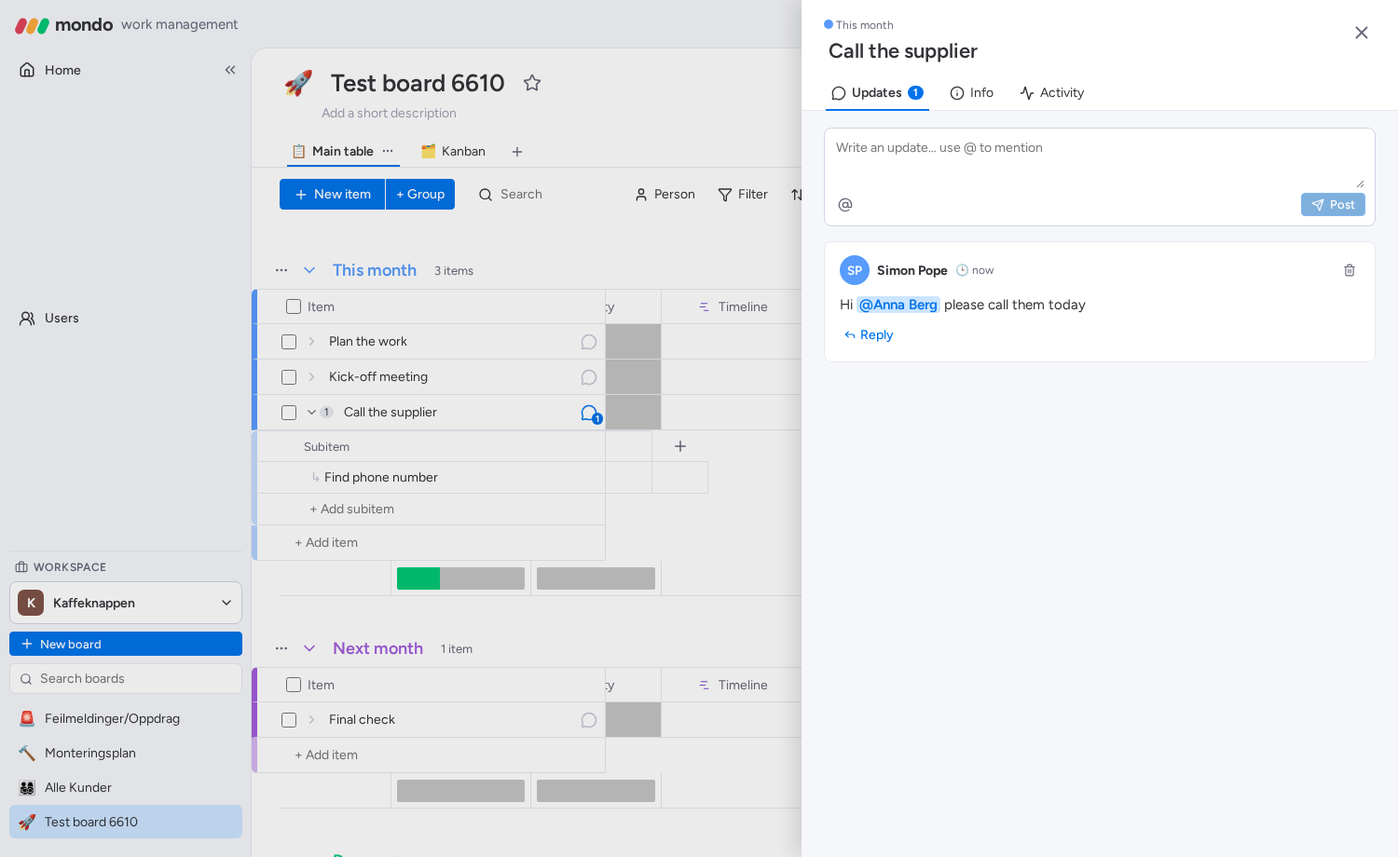
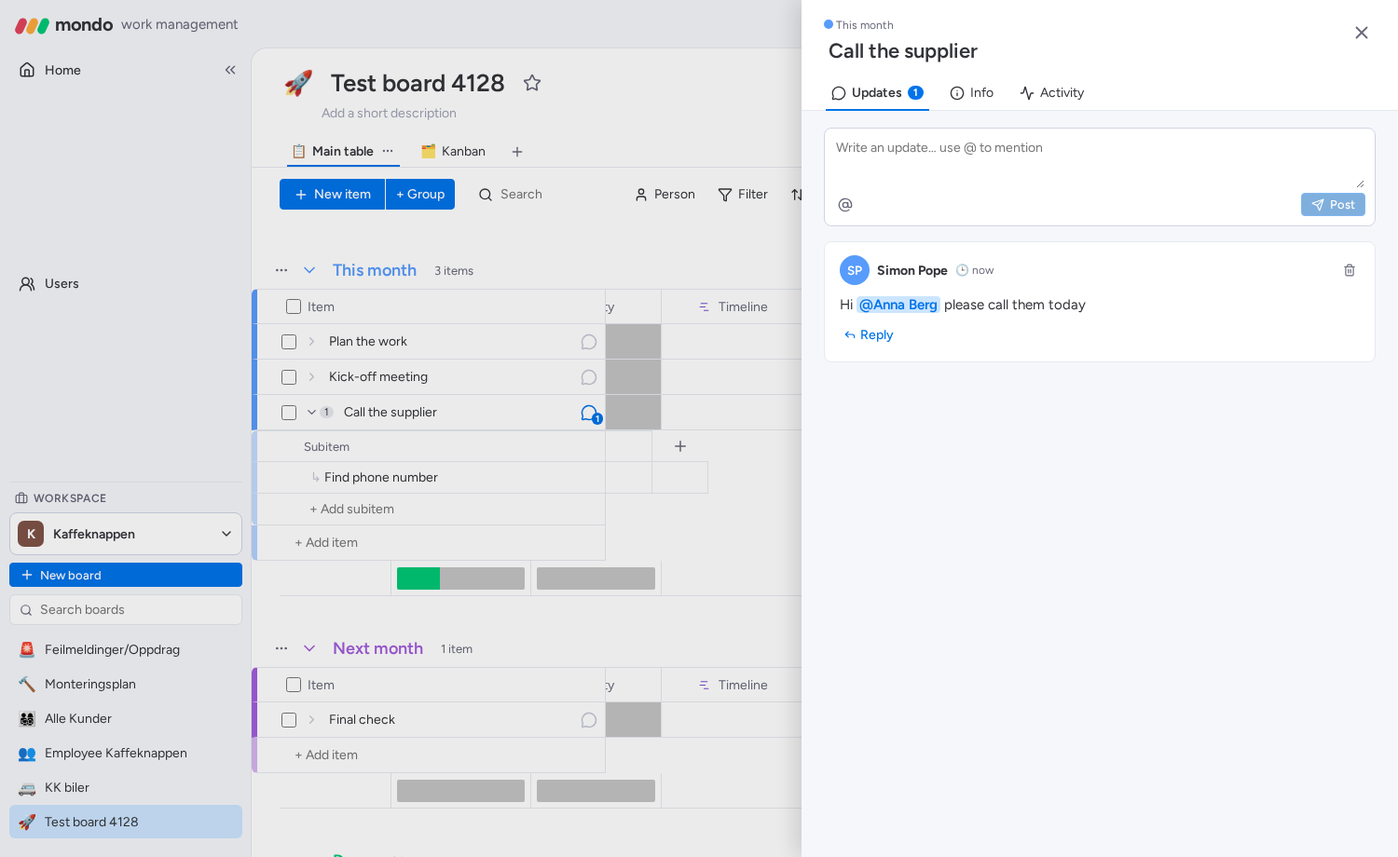
Ledelse/Employee/Biler boards (structure from monday, made-up rows): templates + fresh-start seed; date-arrives and column-change automations

diff --git a/app/server/templates-more.js b/app/server/templates-more.js
@@ -1,0 +1,163 @@
+// Ledelse / admin boards – STRUCTURE copied from Simon's monday boards (names, groups, column titles/types, status labels + colours,
+// subitems, automations). No real content: goals, meeting notes, staff, salaries, ID/bank numbers and cars are NOT copied.
+const { col, grp, cid } = require('./templates');
+
+// monday label colour index → hex (indexes come from the monday API)
+const IDX = { 0: '#fdab3d', 1: '#00c875', 2: '#df2f4a', 3: '#007eb5', 4: '#9d50dd', 5: '#c4c4c4', 6: '#037f4c', 7: '#579bfc', 8: '#cab641', 9: '#ffcb00', 10: '#333333', 11: '#bb3354', 12: '#ff007f', 13: '#ff5ac4', 14: '#784bd1', 15: '#9cd326', 16: '#66ccff', 17: '#757575', 18: '#7f5347', 19: '#ff6d3b', 104: '#9aadbd', 105: '#68a1bd', 109: '#401694', 153: '#216edf', 156: '#74afcc', 159: '#bda8f9' };
+const L = (spec) => spec.split(';').map((x) => x.trim()).filter(Boolean).map((x) => { const m = x.match(/^(.*)\[(#[0-9a-f]{6}|\d+)\]$/i); return { id: cid('l'), label: m[1].trim(), color: m[2].startsWith('#') ? m[2] : IDX[m[2]] || '#c4c4c4' }; });
+const st = (title, spec) => col('status', title, { labels: [...L(spec), { id: cid('l'), label: '', color: '#c4c4c4' }] });
+const dd = (title, list) => col('dropdown', title, { options: list.map((label) => ({ id: cid('o'), label })) });
+const byTitle = (cols, t, n = 0) => cols.filter((c) => c.title === t)[n];
+const lab = (c, name) => c.settings.labels.find((l) => l.label === name)?.id;
+const file = (title) => col('link', title); // mondo has no file upload yet – a link (e.g. SharePoint/OneDrive) instead
+
+// ---------- Styrets handlingsplan Kaffeknappen 2025 ----------
+function styret() {
+  const columns = [
+    st('Status', 'Working on it[0]; Done[1]; Stuck[2]; Ikke startet[5]'),
+    st('Kategori', 'kunder[0]; ledelse[1]; avtaler[2]; kunnskap[3]; produkter[4]; FInans Økonomi[5]; marked[6]; strategi[7]'),
+    st('Prioritet', 'Høy[2]; Middels[0]; Lav[16]'),
+    col('people', 'People'),
+    col('date', 'Tidsfrist'),
+    col('long_text', 'Tiltak 2021'),
+  ];
+  const groups = [grp('Group Title', '#579bfc'), grp('Done', '#00c875')];
+  const s = columns[0];
+  return { columns, groups, items: [['Nytt tiltak', 0]],
+    automations: [{ trigger: { type: 'status_change', col: s.id, to: lab(s, 'Done') }, action: { type: 'move_group', group: groups[1].id } }],
+    views: [{ type: 'kanban', name: 'Kanban', settings: { col: columns[1].id } }, { type: 'chart', name: 'Chart' }],
+    description: 'Styrets handlingsplan: tiltak per kategori, prioritet og tidsfrist. Done → flyttes til Done ⚡ (Demo: plassholdertekst.)' };
+}
+
+// ---------- 4-banden ledelsesmøte ----------
+function fireBanden() {
+  const columns = [col('people', 'Person'), st('Status', 'Working on it[0]; Done[1]; Stuck[2]; Satt på vent[3]'), col('date', 'Date'), file('Files')];
+  const groups = [grp('Group Title', '#579bfc'), grp('Group Title', '#00c875')];
+  const s = columns[1];
+  return { columns, groups, items: [['Nytt punkt', 0]],
+    automations: [{ trigger: { type: 'status_change', col: s.id, to: lab(s, 'Done') }, action: { type: 'move_group', group: groups[1].id } }],
+    description: 'Ledelsesmøte: saker, ansvarlig, status og dato. Done → flyttes til gruppe 2 ⚡ (Demo: plassholdertekst.)' };
+}
+
+// ---------- Strategi 2030 ----------
+function strategi() {
+  const columns = [
+    st('Avdeling', 'Konsept[159]; Salg[3]; Produkt[5]; Service[105]; lager & logistikk[156]'),
+    col('people', 'Person'),
+    st('Status', 'Fordelt[0]; Done[1]; Ikke påbegynt[2]; Planlagt[3]'),
+    st('Label', '2029[0]; 2030[104]; 2027[3]; 2026[1]; 2028[156]'),
+  ];
+  const sub_columns = [col('people', 'Owner'), st('Status', 'Working on it[0]; Done[1]; Stuck[2]; Not started[3]'), col('timeline', 'Timeline'), col('numbers', 'Progress tracking', { unit: '%' })];
+  const groups = [grp('Hovedmål SERVICE 2030', '#68a1bd'), grp('Hovedmål SALG 2030', '#007eb5')];
+  return { columns, groups, sub_columns, items: [['Nytt hovedmål', 0]],
+    views: [{ type: 'kanban', name: 'Kanban', settings: { col: columns[3].id } }, { type: 'chart', name: 'Chart' }],
+    description: 'Strategi 2030: hovedmål per avdeling og år, delmål som subitems med fremdrift. (Demo: plassholdertekst.)' };
+}
+
+// ---------- Handlingsplan 2026 Service ----------
+function handlingsplan() {
+  const columns = [
+    st('Avdeling', 'Hoved[159]; Salg[3]; Produkt[5]; Service[105]; Lager/logistics[156]'),
+    st('Priority', 'Working on it[0]; Done[1]; Stuck[2]'),
+    st('Status', 'Working on it[0]; Done[1]; Stuck[2]'),
+    col('people', 'Person'), col('date', 'Date'), file('File'), col('timeline', 'Timeline'),
+    st('Status', 'Working on it[0]; Done[1]; Stuck[2]'), col('date', 'Date'),
+  ];
+  // the real group names are the actual 2026 goals – replaced by placeholders
+  const groups = [grp('Mål 1 (plassholder)', '#df2f4a'), grp('Mål 2 (plassholder)', '#fdab3d'), grp('Mål 3 (plassholder)', '#579bfc')];
+  return { columns, groups, items: [['Nytt tiltak', 0]],
+    views: [{ type: 'timeline', name: 'Timeline', settings: { col: columns[6].id } }, { type: 'chart', name: 'Chart' }],
+    description: 'Handlingsplan Service: ett mål per gruppe, tiltak med ansvarlig, tidslinje og status. (Demo: plassholdertekst.)' };
+}
+
+// ---------- Employee boards (columns only; never real HR data) ----------
+function employee(kind) {
+  const kk = kind === 'kk';
+  const columns = [
+    col('creation_log', 'Submission Date'),
+    col('numbers', 'Start lønn', { unit: 'kr', hideFooter: true }), col('numbers', 'Lønn Nå', { unit: 'kr', hideFooter: true }),
+    col('date', 'Gikk opp sist'), col('date', 'Start Date'),
+    col('phone', kk ? 'Employee phone number' : 'Telephone nr'),
+    col('numbers', 'Stillingsprosent', { unit: '%', hideFooter: true }),
+    col('date', 'Slutt Dato'),
+    file('Oppsigelse'), file('Contract'), file('CV'),
+    kk ? file('Advarsel') : null,
+    kk ? st('Stilling', 'Service Spesialist[#fdab3d]; Teknisksjef[#df2f4a]; Team leader[#007eb5]; Teknikker[#9d50dd]; Service Teamleader[#037f4c]; COO[#579bfc]; Teknikker leder[#cab641]')
+      : st('Stilling', 'Service Spesialist[#fdab3d]; Teknisk[#00c875]; Teknisksjef[#df2f4a]; Team leader[#007eb5]; Delivery / Service[#401694]; Barista[#ff5ac4]'),
+    kk ? null : file('Advarsel'),
+    kk ? col('email', 'Email') : col('numbers', 'Person nr', { hideFooter: true }),
+    kk ? col('location', 'Adresse') : col('location', 'Adresse'),
+    kk ? col('numbers', 'Bank nr', { hideFooter: true }) : col('email', 'Email'),
+    kk ? col('numbers', 'Person nr', { hideFooter: true }) : col('numbers', 'kontonr', { hideFooter: true }),
+    kk ? st('Work Status', 'Sagt opp[#fdab3d]; aktiv[#00c875]; Sluttet[#df2f4a]; Prøve[#007eb5]; Kommer snart[#9d50dd]; Sykmeldt[#ff5ac4]')
+      : st('Work status', 'Sagt opp[#fdab3d]; Aktiv[#00c875]; Sluttet[#df2f4a]; Prøve[#007eb5]; Kommer snart[#9d50dd]; Langtids sykemeldt[#faa1f1]'),
+    kk ? st('Kontrakt type', 'Deltid[#ff6d3b]; FAST 100%[#00c875]; Timer[#5559df]; VIKAR[#ff007f]')
+      : st('Kontrakt Type', 'DELTID[#fdab3d]; FAST 100%[#00c875]; TIMER[#5559df]; VIKAR[#ff007f]; 50%[#9d50dd]'),
+    kk ? st('Location', 'STAVANGER[#fdab3d]; OSLO[#00c875]; BERGEN[#df2f4a]; TRONDHEIM[#007eb5]') : null,
+    kk ? file('Medarbeidesamtale') : null,
+    kk ? col('text', 'Ingangskort/pin.') : null,
+  ].filter(Boolean);
+  const groups = kk ? [grp('Service', '#579bfc'), grp('Sluttet', '#c4c4c4')] : [grp('mk folk', '#579bfc'), grp('Ferdig', '#c4c4c4')];
+  const ws = columns.find((c) => /^Work status$/i.test(c.title));
+  const stilling = byTitle(columns, 'Stilling');
+  return { columns, groups, items: [['Ny ansatt', 0]],
+    automations: [{ trigger: { type: 'status_change', col: ws.id, to: lab(ws, 'Sluttet') }, action: { type: 'move_group', group: groups[1].id } }],
+    views: [{ type: 'chart', name: 'Chart', settings: { col: stilling.id } }],
+    form: { title: 'Ny ansatt', desc: 'Registrer en ny ansatt', public: false, fields: [stilling.id, byTitle(columns, 'Start Date').id] },
+    description: 'Ansattoversikt. ⚠ Bare oppdiktede demo-personer – ikke legg inn ekte lønn, personnummer eller kontonummer på testsiden.' };
+}
+
+// ---------- Car boards ----------
+function biler(kind) {
+  const kk = kind === 'kk';
+  const columns = kk ? [
+    col('people', 'Driver'),
+    st('Status', 'LEDIG[0]; Aktiv[1]; SKAL SELGES[2]; MÅ BYTTES UT[3]; RESERVERT[4]; Levert tilbake[18]; SOLGT[7]'), // a staff first name label → generic "RESERVERT"
+    col('date', 'EU Kontrol'), col('checkbox', 'Checkbox 2'),
+    st('DEKK HOS', 'KK LAGER[0]; VIANOR FURUSET[1]; MISSING[2]; VIANOR BRYN[3]; Vianor Trondheim Leangen[4]; Vianor Stavanger Forus[13]'),
+    col('date', 'Dekkskift Date'), col('checkbox', 'Checkbox'),
+    col('date', 'SIST LEST KM'), col('numbers', 'KM STAND', { unit: 'km' }), col('date', 'Service Dato'), col('checkbox', 'Checkbox 1'),
+    st('DRIVSTOFF', 'BENSIN[7]; EL[1]; DIESEL[2]'),
+    dd('BIL MODEL', ['VW CADDY MAXI', 'MB VI', 'VW BUZZ', 'VW TRANSPORTER', 'TOYOTA PROACE CITY', 'TOYOTA CITY', 'T', 'TOYOTA PROACE']),
+    col('creation_log', 'Creation log'),
+    st('AVDELING', 'STAVANGER[19]; OSLO[153]; BERGEN[9]; TRONDHEIM[12]'),
+    col('numbers', 'Ordernr', { hideFooter: true }),
+    st('Leasing/eier', 'Toyota[0]; Ayvens[1]; KK[2]'),
+    st('Drift', 'Toyota[0]; Ayvens[1]; KK[2]'),
+    col('text', 'Text'),
+  ] : [
+    col('people', 'Driver'),
+    st('Status', 'Needs service[#fdab3d]; Aktiv[#00c875]; Problems[#df2f4a]; MÅ BYTTES UT[#007eb5]'),
+    st('DRIVSTOFF', 'BENSIN[#579bfc]; EL[#00c875]; DIESEL[#df2f4a]'),
+    dd('BIL MODEL', ['VW CADDY MAXI', 'MB VITO', 'VW BUZZ', 'VW TRANSPORTER', 'TOYOTA PROACE CITY']),
+    col('creation_log', 'Creation log'),
+    col('numbers', 'KM STAND', { unit: 'km' }),
+    col('timeline', 'SIST LEST KM'),
+    st('DEKK HOS', 'KK LAGER[#fdab3d]; VIANOR[#00c875]; MISSING[#df2f4a]'),
+    st('AVDELING', 'STAVANGER[#ff6d3b]; OSLO[#216edf]; BERGEN[#ffcb00]'),
+    st('Eiier', 'Kaffeknappen[#bb3354]; Ayvens[#00c875]; Magnat[#5559df]'),
+    st('Drift', 'Ayvens[#00c875]; Magnat[#784bd1]'),
+  ];
+  const groups = kk ? [grp('Kaffeknappen service', '#579bfc'), grp('Gamle biler', '#c4c4c4')] : [grp('MAGNAT BILER', '#5559df')];
+  const automations = kk ? [
+    { trigger: { type: 'date_arrives', col: byTitle(columns, 'Dekkskift Date').id, offset: 0 }, action: { type: 'notify', person: '__owner', text: 'Dekkskift i dag' } },
+    { trigger: { type: 'date_arrives', col: byTitle(columns, 'EU Kontrol').id, offset: 0 }, action: { type: 'notify', person: '__owner', text: 'EU-kontroll i dag' } },
+    { trigger: { type: 'date_arrives', col: byTitle(columns, 'Service Dato').id, offset: 0 }, action: { type: 'notify', person: '__owner', text: 'Service på bilen i dag' } },
+    { trigger: { type: 'column_change', col: byTitle(columns, 'KM STAND').id }, action: { type: 'set_date', col: byTitle(columns, 'SIST LEST KM').id } },
+  ] : [];
+  const sub_columns = kk ? [col('people', 'Owner'), st('Status', 'Working on it[0]; Done[1]; Stuck[2]'), col('date', 'Date')] : undefined;
+  return { columns, groups, sub_columns, items: [['Ny bil', 0]], automations,
+    views: [{ type: 'calendar', name: 'Calendar', settings: { col: (byTitle(columns, kk ? 'EU Kontrol' : 'KM STAND') || {}).id } }],
+    description: kk ? 'Bilpark: sjåfør, EU-kontroll, dekk, km og service. Varsler sjåføren når datoen kommer ⚡ (Demo: oppdiktede biler, ingen skiltnr.)' : 'Bilpark Magnat. (Demo: oppdiktede biler, ingen skiltnr.)' };
+}
+
+module.exports = {
+  styret_kk: { name: 'Styrets handlingsplan Kaffeknappen 2025', icon: '🏛', label: 'Styrets handlingsplan', desc: 'Tiltak, kategori, prioritet, frist', make: styret },
+  ledermote: { name: '4-banden ledelsesmøte', icon: '🤝', label: 'Ledelsesmøte', desc: 'Saker, ansvarlig, status', make: fireBanden },
+  strategi: { name: 'Strategi 2030', icon: '🎯', label: 'Strategi', desc: 'Hovedmål med delmål og fremdrift', make: strategi },
+  handlingsplan: { name: 'Handlingsplan 2026 Service', icon: '🗺', label: 'Handlingsplan', desc: 'Mål som grupper, tiltak på tidslinje', make: handlingsplan },
+  employee_kk: { name: 'Employee Kaffeknappen', icon: '👥', label: 'Ansatte (KK)', desc: 'Ansattoversikt – kun kolonner', make: () => employee('kk') },
+  employee_mk: { name: 'Employee Magnat', icon: '👥', label: 'Ansatte (Magnat)', desc: 'Ansattoversikt – kun kolonner', make: () => employee('mk') },
+  biler_kk: { name: 'KK biler', icon: '🚐', label: 'Biler (KK)', desc: 'Bilpark med EU-kontroll og dekk', make: () => biler('kk') },
+  biler_mk: { name: 'MK biler', icon: '🚐', label: 'Biler (Magnat)', desc: 'Bilpark Magnat', make: () => biler('mk') },
+};

diff --git a/app/server/seed-more.js b/app/server/seed-more.js
@@ -1,0 +1,103 @@
+// Ledelse, Kaffeknappen and Magnat admin boards with MADE-UP rows only (placeholder text, fake people, fake cars).
+// Runs once per database (meta flag), so the boards also come back after a Render free-plan reset.
+module.exports = function seedMore(db, { createBoard, insertItem, getBoard, now, cid }) {
+  db.exec('create table if not exists meta(key text primary key, value text)');
+  if (db.prepare("select 1 from meta where key='seed_more'").get()) return;
+  db.prepare("insert into meta values('seed_more', ?)").run(now());
+  if (!db.prepare("select 1 from people where id='p_anna'").get()) return;
+  const W = (id, name, color, pos) => db.prepare('insert or ignore into workspaces values(?,?,?,?,?)').run(id, name, color, pos, now());
+  W('w_kk', 'Kaffeknappen', '#7f5347', 0); W('w_ledelse', 'Ledelse', '#225091', 1); W('w_magnat', 'Magnat', '#5559df', 2);
+
+  const day = (n) => { const d = new Date(); d.setDate(d.getDate() + n); return d.toISOString().slice(0, 10); };
+  const make = (ws, tpl) => { const id = createBoard({ workspace_id: ws, template: tpl }).id; db.prepare('delete from items where board_id=?').run(id); return getBoard(id); };
+  const H = (b) => ({
+    C: (t, n = 0, sub) => (sub ? b.sub_columns : b.columns).filter((c) => c.title === t)[n],
+    S: (c, label) => { const l = c.settings.labels.find((x) => x.label === label); if (!l) throw new Error(`label ${label} missing in ${c.title}`); return l.id; },
+    O: (c, label) => c.settings.options.find((o) => o.label === label).id,
+  });
+  const rows = (b, list) => list.map(([gi, name, vals, parent], k) => insertItem(b.id, b.groups[gi].id, name, parent || null, JSON.parse(JSON.stringify(vals)), k + 1));
+
+  // 🏛 Styrets handlingsplan Kaffeknappen 2025
+  let b = make('w_ledelse', 'styret_kk'); let { C, S } = H(b);
+  rows(b, [
+    [0, 'Tiltak A (eksempel)', { [C('Status').id]: S(C('Status'), 'Working on it'), [C('Kategori').id]: S(C('Kategori'), 'kunder'), [C('Prioritet').id]: S(C('Prioritet'), 'Høy'), [C('People').id]: ['p_simon'], [C('Tidsfrist').id]: day(20), [C('Tiltak 2021').id]: 'Plassholdertekst – beskriv tiltaket her.' }],
+    [0, 'Tiltak B (eksempel)', { [C('Status').id]: S(C('Status'), 'Ikke startet'), [C('Kategori').id]: S(C('Kategori'), 'marked'), [C('Prioritet').id]: S(C('Prioritet'), 'Middels'), [C('People').id]: ['p_anna'], [C('Tidsfrist').id]: day(45) }],
+    [0, 'Tiltak C (eksempel)', { [C('Status').id]: S(C('Status'), 'Stuck'), [C('Kategori').id]: S(C('Kategori'), 'FInans Økonomi'), [C('Prioritet').id]: S(C('Prioritet'), 'Lav'), [C('People').id]: ['p_erik'], [C('Tidsfrist').id]: day(-3) }],
+    [1, 'Tiltak D (eksempel)', { [C('Status').id]: S(C('Status'), 'Done'), [C('Kategori').id]: S(C('Kategori'), 'strategi'), [C('Prioritet').id]: S(C('Prioritet'), 'Høy'), [C('People').id]: ['p_simon'], [C('Tidsfrist').id]: day(-30) }],
+  ]);
+
+  // 🤝 4-banden ledelsesmøte
+  b = make('w_ledelse', 'ledermote'); ({ C, S } = H(b));
+  rows(b, [
+    [0, 'Sak 1 (eksempel)', { [C('Person').id]: ['p_simon'], [C('Status').id]: S(C('Status'), 'Working on it'), [C('Date').id]: day(2) }],
+    [0, 'Sak 2 (eksempel)', { [C('Person').id]: ['p_maria'], [C('Status').id]: S(C('Status'), 'Satt på vent'), [C('Date').id]: day(9) }],
+    [0, 'Sak 3 (eksempel)', { [C('Person').id]: ['p_jonas'], [C('Status').id]: S(C('Status'), 'Stuck'), [C('Date').id]: day(-1) }],
+    [1, 'Sak 4 (eksempel)', { [C('Person').id]: ['p_anna'], [C('Status').id]: S(C('Status'), 'Done'), [C('Date').id]: day(-7) }],
+  ]);
+
+  // 🎯 Strategi 2030 (delmål as subitems)
+  b = make('w_ledelse', 'strategi'); ({ C, S } = H(b));
+  const sc = (t) => C(t, 0, true);
+  const [m1, m2, m3] = rows(b, [
+    [0, 'Hovedmål 1 (plassholder)', { [C('Avdeling').id]: S(C('Avdeling'), 'Service'), [C('Person').id]: ['p_erik'], [C('Status').id]: S(C('Status'), 'Fordelt'), [C('Label').id]: S(C('Label'), '2027') }],
+    [0, 'Hovedmål 2 (plassholder)', { [C('Avdeling').id]: S(C('Avdeling'), 'lager & logistikk'), [C('Person').id]: ['p_jonas'], [C('Status').id]: S(C('Status'), 'Planlagt'), [C('Label').id]: S(C('Label'), '2030') }],
+    [1, 'Hovedmål 3 (plassholder)', { [C('Avdeling').id]: S(C('Avdeling'), 'Salg'), [C('Person').id]: ['p_maria'], [C('Status').id]: S(C('Status'), 'Ikke påbegynt'), [C('Label').id]: S(C('Label'), '2028') }],
+  ]);
+  const subStatus = sc('Status');
+  [[m1, 'Delmål 1.1 (eksempel)', 'Done', 100, -60, -10], [m1, 'Delmål 1.2 (eksempel)', 'Working on it', 40, -5, 60], [m2, 'Delmål 2.1 (eksempel)', 'Not started', 0, 30, 120], [m3, 'Delmål 3.1 (eksempel)', 'Stuck', 15, -20, 40]]
+    .forEach(([p, n, s, pr, f, t]) => insertItem(b.id, db.prepare('select group_id from items where id=?').get(p).group_id, n, p, { [sc('Owner').id]: ['p_simon'], [subStatus.id]: S(subStatus, s), [sc('Timeline').id]: { from: day(f), to: day(t) }, [sc('Progress tracking').id]: pr }));
+
+  // 🗺 Handlingsplan 2026 Service
+  b = make('w_ledelse', 'handlingsplan'); ({ C, S } = H(b));
+  rows(b, [
+    [0, 'Tiltak 1.1 (eksempel)', { [C('Avdeling').id]: S(C('Avdeling'), 'Service'), [C('Priority').id]: S(C('Priority'), 'Stuck'), [C('Status').id]: S(C('Status'), 'Working on it'), [C('Person').id]: ['p_erik'], [C('Date').id]: day(14), [C('Timeline').id]: { from: day(-10), to: day(30) } }],
+    [0, 'Tiltak 1.2 (eksempel)', { [C('Avdeling').id]: S(C('Avdeling'), 'Hoved'), [C('Priority').id]: S(C('Priority'), 'Working on it'), [C('Status').id]: S(C('Status'), 'Done'), [C('Person').id]: ['p_simon'], [C('Date').id]: day(-5), [C('Timeline').id]: { from: day(-40), to: day(-5) } }],
+    [1, 'Tiltak 2.1 (eksempel)', { [C('Avdeling').id]: S(C('Avdeling'), 'Salg'), [C('Status').id]: S(C('Status'), 'Working on it'), [C('Person').id]: ['p_maria'], [C('Timeline').id]: { from: day(0), to: day(50) } }],
+    [2, 'Tiltak 3.1 (eksempel)', { [C('Avdeling').id]: S(C('Avdeling'), 'Lager/logistics'), [C('Status').id]: S(C('Status'), 'Stuck'), [C('Person').id]: ['p_jonas'], [C('Timeline').id]: { from: day(7), to: day(70) } }],
+  ]);
+
+  // 👥 Employee boards – obviously fake people, no salary / ID / bank / address / phone values
+  const emp = (ws, tpl, people) => {
+    const e = make(ws, tpl); const h = H(e);
+    const ws_ = e.columns.find((c) => /^Work status$/i.test(c.title)), kt = e.columns.find((c) => /^Kontrakt type$/i.test(c.title)), stl = h.C('Stilling'), loc = h.C('Location');
+    rows(e, people.map(([gi, name, still, work, kont, pct, start, place]) => [gi, name, {
+      [stl.id]: h.S(stl, still), [ws_.id]: h.S(ws_, work), [kt.id]: h.S(kt, kont), [h.C('Stillingsprosent').id]: pct, [h.C('Start Date').id]: day(start),
+      [h.C('Email').id]: name.split(' ')[0].toLowerCase() + '.demo@example.com', ...(loc && place ? { [loc.id]: h.S(loc, place) } : {}),
+    }]));
+  };
+  emp('w_kk', 'employee_kk', [
+    [0, 'Ola Nordmann (demo)', 'Teknikker', 'aktiv', 'FAST 100%', 100, -400, 'OSLO'],
+    [0, 'Kari Nordmann (demo)', 'Service Teamleader', 'aktiv', 'FAST 100%', 100, -900, 'BERGEN'],
+    [0, 'Per Eksempel (demo)', 'Service Spesialist', 'Prøve', 'VIKAR', 60, -30, 'TRONDHEIM'],
+    [1, 'Lise Testesen (demo)', 'Teknikker', 'Sluttet', 'Deltid', 50, -1200, 'STAVANGER'],
+  ]);
+  emp('w_magnat', 'employee_mk', [
+    [0, 'Nils Demo (demo)', 'Barista', 'Aktiv', 'DELTID', 50, -200],
+    [0, 'Anne Eksempel (demo)', 'Delivery / Service', 'Kommer snart', 'FAST 100%', 100, 14],
+    [1, 'Tor Testmann (demo)', 'Teknisk', 'Sluttet', 'TIMER', 20, -800],
+  ]);
+
+  // 🚐 Car boards – made-up cars, no registration numbers
+  b = make('w_kk', 'biler_kk'); let h = H(b);
+  const car = (name, gi, drv, status, dekk, km, fuel, model, avd, eier, euOff) => [gi, name, {
+    [h.C('Driver').id]: drv, [h.C('Status').id]: h.S(h.C('Status'), status), [h.C('EU Kontrol').id]: day(euOff), [h.C('DEKK HOS').id]: h.S(h.C('DEKK HOS'), dekk),
+    [h.C('Dekkskift Date').id]: day(euOff + 20), [h.C('KM STAND').id]: km, [h.C('SIST LEST KM').id]: day(-3), [h.C('Service Dato').id]: day(euOff + 40),
+    [h.C('DRIVSTOFF').id]: h.S(h.C('DRIVSTOFF'), fuel), [h.C('BIL MODEL').id]: [h.O(h.C('BIL MODEL'), model)], [h.C('AVDELING').id]: h.S(h.C('AVDELING'), avd),
+    [h.C('Leasing/eier').id]: h.S(h.C('Leasing/eier'), eier), [h.C('Drift').id]: h.S(h.C('Drift'), eier),
+  }];
+  const cars = rows(b, [
+    car('Servicebil 1 (demo)', 0, ['p_erik'], 'Aktiv', 'KK LAGER', 48200, 'EL', 'VW BUZZ', 'OSLO', 'Ayvens', 25),
+    car('Servicebil 2 (demo)', 0, ['p_jonas'], 'Aktiv', 'VIANOR BRYN', 91350, 'DIESEL', 'VW TRANSPORTER', 'BERGEN', 'Toyota', 60),
+    car('Servicebil 3 (demo)', 0, [], 'LEDIG', 'MISSING', 15800, 'BENSIN', 'TOYOTA PROACE CITY', 'TRONDHEIM', 'KK', 5),
+    car('Gammel bil (demo)', 1, [], 'SOLGT', 'KK LAGER', 210400, 'DIESEL', 'VW CADDY MAXI', 'STAVANGER', 'KK', -200),
+  ]);
+  const ss = h.C('Status', 0, true);
+  insertItem(b.id, b.groups[0].id, 'Bytte vindusviskere (eksempel)', cars[0], { [h.C('Owner', 0, true).id]: ['p_erik'], [ss.id]: h.S(ss, 'Done'), [h.C('Date', 0, true).id]: day(-2) });
+  insertItem(b.id, b.groups[0].id, 'Dekkskift (eksempel)', cars[1], { [h.C('Owner', 0, true).id]: ['p_jonas'], [ss.id]: h.S(ss, 'Working on it'), [h.C('Date', 0, true).id]: day(6) });
+
+  b = make('w_magnat', 'biler_mk'); h = H(b);
+  rows(b, [
+    [0, 'Varebil 1 (demo)', { [h.C('Driver').id]: ['p_maria'], [h.C('Status').id]: h.S(h.C('Status'), 'Aktiv'), [h.C('DRIVSTOFF').id]: h.S(h.C('DRIVSTOFF'), 'EL'), [h.C('BIL MODEL').id]: [h.O(h.C('BIL MODEL'), 'MB VITO')], [h.C('KM STAND').id]: 33100, [h.C('SIST LEST KM').id]: { from: day(-30), to: day(-2) }, [h.C('DEKK HOS').id]: h.S(h.C('DEKK HOS'), 'VIANOR'), [h.C('AVDELING').id]: h.S(h.C('AVDELING'), 'OSLO'), [h.C('Eiier').id]: h.S(h.C('Eiier'), 'Magnat'), [h.C('Drift').id]: h.S(h.C('Drift'), 'Magnat') }],
+    [0, 'Varebil 2 (demo)', { [h.C('Driver').id]: ['p_anna'], [h.C('Status').id]: h.S(h.C('Status'), 'Needs service'), [h.C('DRIVSTOFF').id]: h.S(h.C('DRIVSTOFF'), 'DIESEL'), [h.C('BIL MODEL').id]: [h.O(h.C('BIL MODEL'), 'VW CADDY MAXI')], [h.C('KM STAND').id]: 120900, [h.C('DEKK HOS').id]: h.S(h.C('DEKK HOS'), 'KK LAGER'), [h.C('AVDELING').id]: h.S(h.C('AVDELING'), 'BERGEN'), [h.C('Eiier').id]: h.S(h.C('Eiier'), 'Ayvens'), [h.C('Drift').id]: h.S(h.C('Drift'), 'Ayvens') }],
+  ]);
+};

diff --git a/app/server/index.js b/app/server/index.js
@@ -189,6 +189,7 @@ app.patch('/api/items/:id', wrap((req, res) => {
   db.prepare('update items set name=?, vals=?, group_id=?, updated=? where id=?').run(req.body.name ?? i.name, JSON.stringify(vals), req.body.group_id ?? i.group_id, now(), i.id);
   if (req.body.group_id && req.body.group_id !== i.group_id) db.prepare('update items set group_id=? where parent_id=?').run(req.body.group_id, i.id);
   if (req.body.vals && !i.parent_id) runAutomations(b.id, i.id, 'change', req.body.vals, vals);
+  if (req.body.vals && (b.automations || []).some((r) => r.trigger?.type === 'date_arrives' && r.trigger.col in req.body.vals)) checkDateRules(); // a date set to today fires right away
   touch(b.id);
   return fullBoard(b.id);
 }));
@@ -294,6 +295,9 @@ function runAutomations(board_id, item_id, trigger, changed, depth = 0) {
     if (trigger === 'subcreate' && t.type === 'subitem_created') hit = true;
     if (trigger === 'subcreate' && t.type !== 'subitem_created') continue;
     if (trigger === 'change' && t.type === 'status_change' && t.col in changed && (!t.to || changed[t.col] === t.to)) hit = true;
+    if (trigger === 'change' && t.type === 'column_change' && t.col in changed) hit = true;
+    if (trigger === 'date' && r.id === changed.__rule) hit = true;
+    if (trigger === 'date' && r.id !== changed.__rule) continue;
     if (!hit) continue;
     const a = r.action || {};
     const colT = (id) => [...b.columns, ...(b.sub_columns || [])].find((c) => c.id === id)?.title;
@@ -341,6 +345,7 @@ app.get('/api/health', (req, res) => { try { db.prepare('select 1').get(); res.j
 if (process.env.SEED_DEMO !== '0') {
   db.transaction(() => require('./seed')(db, { createBoard, insertItem, getBoard, now, cid, ME: ME_SEED, AVATAR_COLORS }))();
   db.transaction(() => require('./seed-kk')(db, { createBoard, insertItem, getBoard, now, cid, ME: ME_SEED }))(); // Kaffeknappen boards (once per database)
+  db.transaction(() => require('./seed-more')(db, { createBoard, insertItem, getBoard, now, cid }))(); // Ledelse / admin boards (once per database)
 }
 
 const dist = path.join(__dirname, '..', 'dist');
@@ -353,4 +358,24 @@ if (process.env.ADMIN_EMAIL && process.env.ADMIN_PASSWORD && !db.prepare('select
   console.log('Admin user created for', process.env.ADMIN_EMAIL);
 }
 const PORT = process.env.PORT || 4321;
+// "When a date arrives" automations: checked at start and every 15 minutes (each rule fires once per item and date)
+function checkDateRules() {
+  try {
+    db.exec('create table if not exists meta(key text primary key, value text)');
+    for (const row of db.prepare('select id, automations from boards').all()) {
+      const rules = J(row.automations, []).filter((r) => r.on !== false && r.trigger?.type === 'date_arrives' && r.trigger.col);
+      for (const r of rules) {
+        const d = new Date(); d.setDate(d.getDate() + (Number(r.trigger.offset) || 0)); const target = d.toISOString().slice(0, 10);
+        for (const it of db.prepare('select id, vals from items where board_id=?').all(row.id)) {
+          if (J(it.vals, {})[r.trigger.col] !== target) continue;
+          const key = `date_rule:${r.id}:${it.id}:${target}`;
+          if (db.prepare('select 1 from meta where key=?').get(key)) continue;
+          db.prepare('insert into meta values(?,?)').run(key, now());
+          runAutomations(row.id, it.id, 'date', { __rule: r.id });
+        }
+      }
+    }
+  } catch (e) { console.warn('date rules failed', e.message); }
+}
+checkDateRules(); setInterval(checkDateRules, 15 * 60 * 1000).unref();
 app.listen(PORT, process.env.HOST || (process.env.RENDER ? '0.0.0.0' : '127.0.0.1'), () => console.log(`mondo running on http://localhost:${PORT}`));

diff --git a/app/src/Automations.jsx b/app/src/Automations.jsx
@@ -17,11 +17,16 @@ function Rule({ r, board, ctx, onChange, onDelete }) {
       <label className="switch"><input type="checkbox" checked={r.on !== false} onChange={(e) => onChange({ ...r, on: e.target.checked })} /><span /></label>
       <div className="auto-sentence">
         <b>When</b>
-        <Sel value={t.type} onChange={(v) => setT({ type: v })}><option value="status_change">status changes</option><option value="item_created">an item is created</option><option value="subitem_created">a subitem is created</option></Sel>
+        <Sel value={t.type} onChange={(v) => setT({ type: v })}><option value="status_change">status changes</option><option value="item_created">an item is created</option><option value="subitem_created">a subitem is created</option><option value="column_change">a column changes</option><option value="date_arrives">a date arrives</option></Sel>
         {t.type === 'status_change' && <>
           <Sel value={t.col} onChange={(v) => setT({ col: v, to: '' })}><option value="">pick column</option>{sc.map((c) => <option key={c.id} value={c.id}>{c.title}</option>)}</Sel>
           <b>to</b>
           <Sel value={t.to} onChange={(v) => setT({ to: v })}><option value="">anything</option>{labelsOf(t.col).map((l) => <option key={l.id} value={l.id}>{l.label}</option>)}</Sel>
+        </>}
+        {t.type === 'column_change' && <Sel value={t.col} onChange={(v) => setT({ col: v })}><option value="">pick column</option>{board.columns.filter((c) => !['mirror', 'creation_log', 'last_updated'].includes(c.type)).map((c) => <option key={c.id} value={c.id}>{c.title}</option>)}</Sel>}
+        {t.type === 'date_arrives' && <>
+          <Sel value={t.col} onChange={(v) => setT({ col: v })}><option value="">pick date column</option>{board.columns.filter((c) => c.type === 'date').map((c) => <option key={c.id} value={c.id}>{c.title}</option>)}</Sel>
+          <Sel value={String(t.offset || 0)} onChange={(v) => setT({ offset: Number(v) })}>{[0, 1, 3, 7, 14, 30].map((n) => <option key={n} value={n}>{n ? `${n} days before` : 'on the day'}</option>)}</Sel>
         </>}
         <b>then</b>
         <Sel value={a.type} onChange={(v) => setA({ type: v })}>

diff --git a/app/src/TableView.jsx b/app/src/TableView.jsx
@@ -99,6 +99,7 @@ export function Summary({ col, items, ctx }) {
     const blank = n - counts.reduce((a, c) => a + c.n, 0);
     return <div className="battery">{counts.filter((c) => c.n).map((c) => <span key={c.l.id} style={{ width: (c.n / n) * 100 + '%', background: c.l.color }} title={`${c.l.label}: ${c.n}`} />)}{blank > 0 && <span style={{ width: (blank / n) * 100 + '%', background: '#c4c4c4' }} title={`Blank: ${blank}`} />}</div>;
   }
+  if (col.type === 'numbers' && col.settings.hideFooter) return null;
   if (col.type === 'numbers') { const s = items.reduce((a, i) => a + (Number(i.vals[col.id]) || 0), 0); return <div className="sum-num" data-testid="sum"><b>{fmtNum(s)}{col.settings.unit ? ' ' + col.settings.unit : ''}</b><span>sum</span></div>; }
   if (col.type === 'checkbox') { const s = items.filter((i) => i.vals[col.id]).length; return <div className="sum-num"><b>{s}/{items.length}</b><span>✔</span></div>; }
   if (col.type === 'time_tracking') { const s = items.reduce((a, i) => a + (i.vals[col.id]?.total || 0), 0); return <div className="sum-num"><b>{Math.floor(s / 3600)}h {Math.floor((s % 3600) / 60)}m</b><span>sum</span></div>; }

diff --git a/app/server/templates.js b/app/server/templates.js
@@ -40,3 +40,4 @@ const TEMPLATES = {
 };
 module.exports = { TEMPLATES, col, grp, subCols, cid, C };
 Object.assign(TEMPLATES, require('./templates-kk'));
+Object.assign(TEMPLATES, require('./templates-more'));

diff --git a/README.md b/README.md
@@ -12,6 +12,19 @@ On a fresh database mondo creates the workspace **Kaffeknappen** with the three 
 - On phones, Feilmeldinger cards get 📞 and ➤ buttons from the linked customer's phone number and address.
 - `tests/kk.mjs` checks the structure and takes screenshots 24–29.
 
+## Ledelse, Employee and car boards
+Also created on a fresh database, and available as templates. The structure is copied from monday; the rows are **made up**.
+- **Ledelse:**
+  - 🏛 **Styrets handlingsplan Kaffeknappen 2025**: Status, Kategori, Prioritet, People, Tidsfrist, Tiltak 2021. Done → moved to Done.
+  - 🤝 **4-banden ledelsesmøte**: Person, Status, Date, Files. Done → moved to group 2.
+  - 🎯 **Strategi 2030**: Avdeling, Person, Status, Label (year). Delmål are subitems with Owner, Status, Timeline and Progress.
+  - 🗺 **Handlingsplan 2026 Service**: one goal per group. The group names are placeholders.
+- **Kaffeknappen:** 👥 **Employee Kaffeknappen** and 🚐 **KK biler** (subitems; when EU-kontroll / Dekkskift / Service Dato arrives the driver gets a notification; changing KM STAND sets SIST LEST KM to today).
+- **Magnat:** 👥 **Employee Magnat** and 🚐 **MK biler**.
+- ⚠ The employee boards have the same columns as monday, including salary, person nr and bank nr. The demo rows leave those columns **empty**. Never enter real HR data on the public test site.
+- New automation triggers: **a column changes** and **a date arrives** (checked every 15 minutes, and straight away when the date is set to today).
+- `tests/more.mjs` checks the structure and takes screenshots 30–39.
+
 ## Run it locally
 ```bash
 cd app
